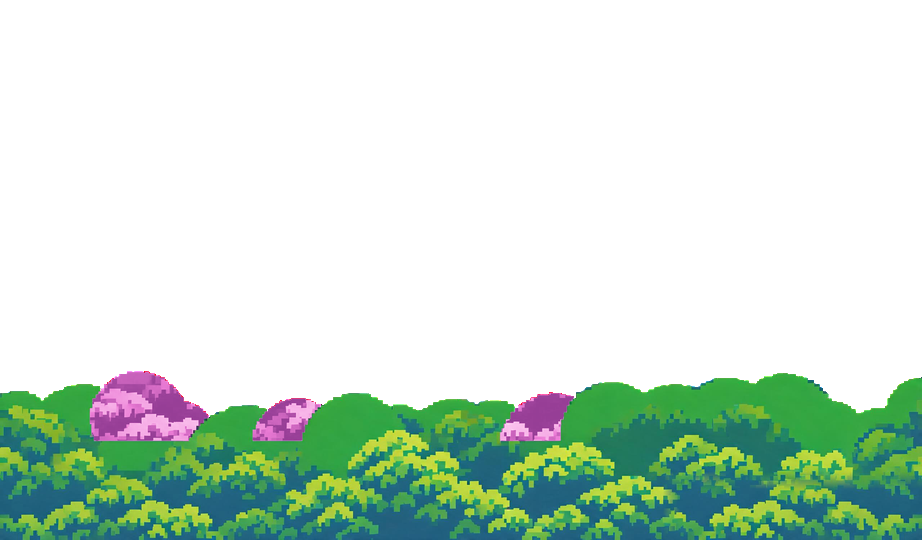
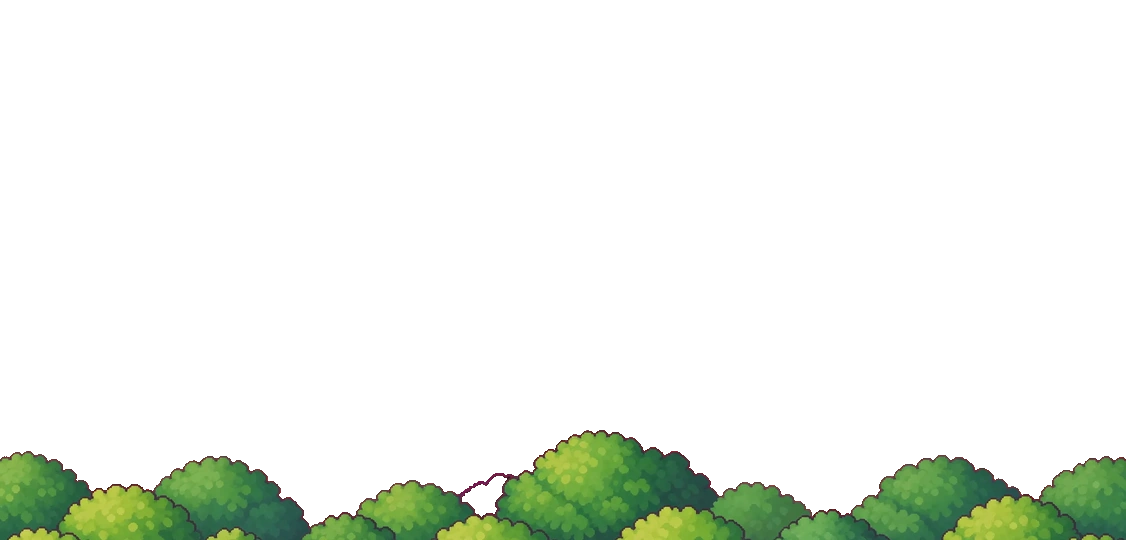
Application Alley: repainted viaduct in three joined stretches, front treetops of their own
Red trees and roofs keep their colour: only open ground keys out.

Claude-Session: https://claude.ai/code/session_01TySN1cNevy2HFj41ARkqbS

Changed region(s): [[0.0, 0.6815, 1.0, 1.0]]

diff --git a/tools/build-art-kit.py b/tools/build-art-kit.py
@@ -451,53 +451,6 @@ def layer(im, scale, top, haze=None, haze_from=None):
     return strip
 
 
-def shaded(light, ramp):
-    """Colours for a field of light, 0 to 1, run through three colours from shade to highlight."""
-    low, mid, high = (np.array(c, np.float32) for c in ramp)
-    light = light[..., None]
-    return np.where(light < 0.5, low + (mid - low) * light * 2, mid + (high - mid) * (light * 2 - 1))
-
-
-def brightness(data, floor=80, span=130):
-    return np.clip((data @ np.array([0.3, 0.59, 0.11], np.float32) - floor) / span, 0, 1)
-
-
-PINKS = ((150, 62, 150), (236, 124, 214), (255, 214, 244))
-GREENS = ((18, 92, 74), (62, 166, 76), (176, 232, 108))
-
-
-def blossom(im, rows, lift):
-    """Flat pink treetops given leaves: each pink pixel takes the light and shade of the green
-    canopy `lift` pixels below it, in pinks."""
-    data = np.asarray(im.convert('RGB')).astype(np.float32)
-    r, g, b = (data[..., c] for c in range(3))
-    pink = (r > 200) & (b > 200) & (g > 100) & (g < 200)
-    pink[: rows[0]] = False
-    pink[rows[1]:] = False
-    data = np.where(pink[..., None], shaded(brightness(np.roll(data, -lift, axis=0)), PINKS), data)
-    return Image.fromarray(data.clip(0, 255).astype(np.uint8), 'RGB')
-
-
-def treetops(im, start):
-    """The canopy on its own, from row `start` down: everything from the first leaf in each column
-    to the foot of the picture. What stands behind the trees there is neither green nor pink."""
-    data = np.asarray(im.convert('RGB'))[start:].astype(np.int32)
-    r, g, b = (data[..., c] for c in range(3))
-    leaf = (g > r + 12) & (g > b - 40) | (g > r + 40)                  # greens and the teal shade
-    petal = (r > 140) & (r > g + 36) & (b > g + 24) & (b < r + 12)     # the pinks `blossom` lays down
-    # A column's canopy begins where leaves carry on for a while, so one stray pixel starts nothing.
-    found = (leaf | petal).astype(np.int32)
-    ahead = np.cumsum(np.concatenate([found, np.zeros((16, found.shape[1]), np.int32)]), axis=0)
-    steady = ((ahead[16:] - ahead[:-16] + found) >= 14) & (found > 0)
-    first = np.where(steady.any(axis=0), steady.argmax(axis=0), len(steady))
-    # No column starts higher than its neighbours do: a spike one pixel wide is not a tree.
-    near = np.pad(first, 4, mode='edge')
-    first = np.maximum(first, np.median(np.stack([near[i: i + len(first)] for i in range(9)]), axis=0).astype(int))
-    canopy = np.arange(len(steady))[:, None] >= first[None]
-    out = np.dstack([data, np.where(canopy, 255, 0)]).astype(np.uint8)
-    return Image.fromarray(out, 'RGBA')
-
-
 def spread(mask, size):
     """A mask grown by `size` pixels each way, as a square."""
     for axis in (0, 1):
@@ -529,12 +482,6 @@ def front_bank(im, start, tree, crown=60, rim=20):
     return Image.fromarray(np.dstack([data, alpha * 255]).astype(np.uint8), 'RGBA')
 
 
-def without_rows(im, start, end):
-    """A picture with a band of rows taken out and the rest closed up."""
-    data = np.asarray(im)
-    return Image.fromarray(np.concatenate([data[:start], data[end:]]), im.mode)
-
-
 def save_layers(world, layers, scene):
     """Write a world's layers and note them in its scene, back to front."""
     scene['layers'] = []
@@ -552,30 +499,65 @@ def save_layers(world, layers, scene):
     return scene
 
 
-def alley_canopy():
-    """Application Alley's viaduct and trees, with its flat pink treetops given leaves."""
-    return blossom(unmarked(Image.open(SRC / 'alley-near.png')), (900, 1180), 240)
+# The viaduct is three pictures, each painted as the next stretch to the right of the last and joined
+# where they match (see `stitched`). The row of treetops in front is a picture of its own.
+ALLEY_ART = {
+    'near': ('alley-near-2.png', 'alley-near-3.png', 'alley-near-4.png'),
+    'near_joins': ((1552, 472), (2520, 524)),
+}
+ALLEY = {'scale': 0.4, 'near': 40, 'trees': 100}
+
+
+def open_ground(clear, least=600, step=4):
+    """Where a picture on a red ground is open ground: the stretches of red that reach the top of the
+    picture or are as big as the opening of an arch, with a few pixels round them for their soft
+    edges. A red tree or roof makes patches of red too; those are small and closed in. Returns the
+    open ground itself, and the same with its edges."""
+    height, width = clear.shape
+    rows, cols = height // step, width // step
+    small = clear[:rows * step, :cols * step].reshape(rows, step, cols, step).all(axis=(1, 3))
+    keep, todo = np.zeros_like(small), small.copy()
+    while todo.any():
+        y, x = np.argwhere(todo)[0]
+        # A copy, so the fill is written to the picture that is read back.
+        canvas = Image.fromarray(todo.astype(np.uint8) * 255, 'L').copy()
+        ImageDraw.floodfill(canvas, (int(x), int(y)), 128)
+        region = np.asarray(canvas) == 128
+        # A half arch at either end is open ground too: the layer goes on, mirrored, past its ends.
+        if region.sum() >= least or region[0].any() or region[:, 0].any() or region[:, -1].any():
+            keep |= region
+        todo &= ~region
+    big = np.zeros_like(clear)
+    big[:rows * step, :cols * step] = np.repeat(np.repeat(keep, step, axis=0), step, axis=1)
+    return big, spread(big, step + 3)
 
 
 def alley_layers():
     sky = unmarked(Image.open(SRC / 'alley-sky.png')).convert('RGB').resize(SCREEN, Image.LANCZOS)
     far = matte(Image.open(SRC / 'alley-far.png'))
-    whole = alley_canopy()
-    # The viaduct's deck is drawn very deep: a plain band comes out of it.
-    near = matte(without_rows(whole, 664, 752), keep_marks=True)
-    # The dark line round each arch picks up the red of the ground. It goes back to the stone's
-    # own dark violet.
-    data = np.asarray(near).copy()
-    r, g, b = (data[..., c].astype(np.int32) for c in range(3))
-    data[(data[..., 3] > 0) & (g < 45) & (r > b) & (r > 60)] = (62, 26, 98, 255)
-    near = Image.fromarray(data, 'RGBA')
-    # The same canopy again, larger and nearer, in front of the viaduct's feet.
-    trees = treetops(whole, 960)
+    whole = stitched(ALLEY_ART['near'], ALLEY_ART['near_joins'])
+    keyed = np.asarray(matte(whole, keep_marks=True)).copy()
+    # Only open ground keys out: the red trees and terracotta roofs keep their own colour. Through
+    # the wide arch the ground shows as a deeper red down the lane; that goes too.
+    paint = np.asarray(whole).astype(np.int32)
+    red = (paint[..., 0] > 205) & (paint[..., 1] < 70) & (paint[..., 2] < 70)
+    core, ground = open_ground(red)
+    keyed[~ground, :3] = paint[~ground]
+    keyed[~ground, 3] = 255
+    keyed[core & red, 3] = 0
+    # Round each arch the dark line picks up the red of the ground. It goes back to the stone's own
+    # dark violet.
+    r, g, b = (keyed[..., c].astype(np.int32) for c in range(3))
+    keyed[ground & (keyed[..., 3] > 0) & (g < 45) & (r > b) & (r > 60)] = (62, 26, 98, 255)
+    near = Image.fromarray(keyed, 'RGBA')
+    # A row of treetops close up, painted on its own, slides in front.
+    trees = matte(Image.open(SRC / 'alley-trees-1.png'))
+    scale = ALLEY['scale']
     return save_layers('application-alley', {
         'sky': (sky, {'speed': 0.02, 'drift': 3}),
         'far': (layer(far, 0.375, -125, haze=(176, 196, 240), haze_from=(255, 345)), {'speed': 0.07}),
-        'near': (layer(near, 0.3, 134), {'speed': 0.18}),
-        'trees': (layer(trees, 0.36, 367), {'speed': 0.3}),
+        'near': (layer(near, scale, ALLEY['near']), {'speed': 0.18}),
+        'trees': (layer(trees, 0.44, ALLEY['trees']), {'speed': 0.3}),
     }, {'behind': 2, 'float': {'sprite': 'balloon', 'at': [260, 104]},
         'flock': {'sprite': 'gull', 'count': 3, 'y': 150, 'beat': 4}})
 
